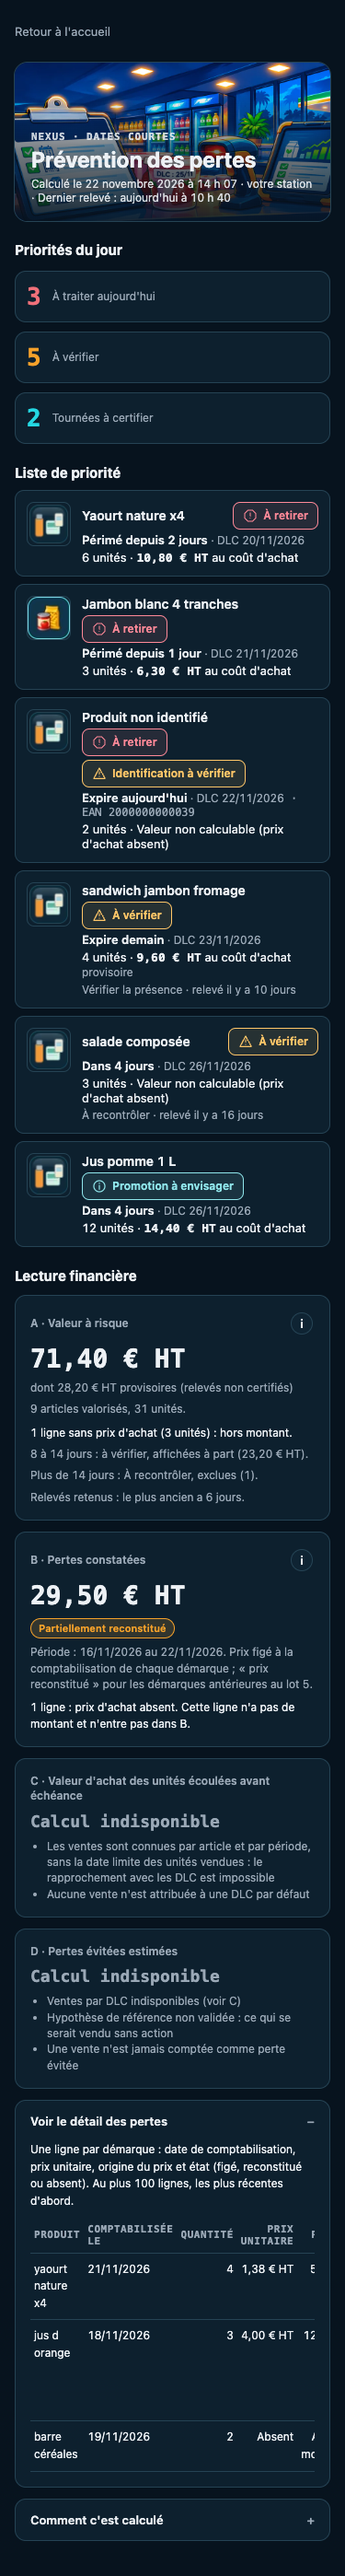
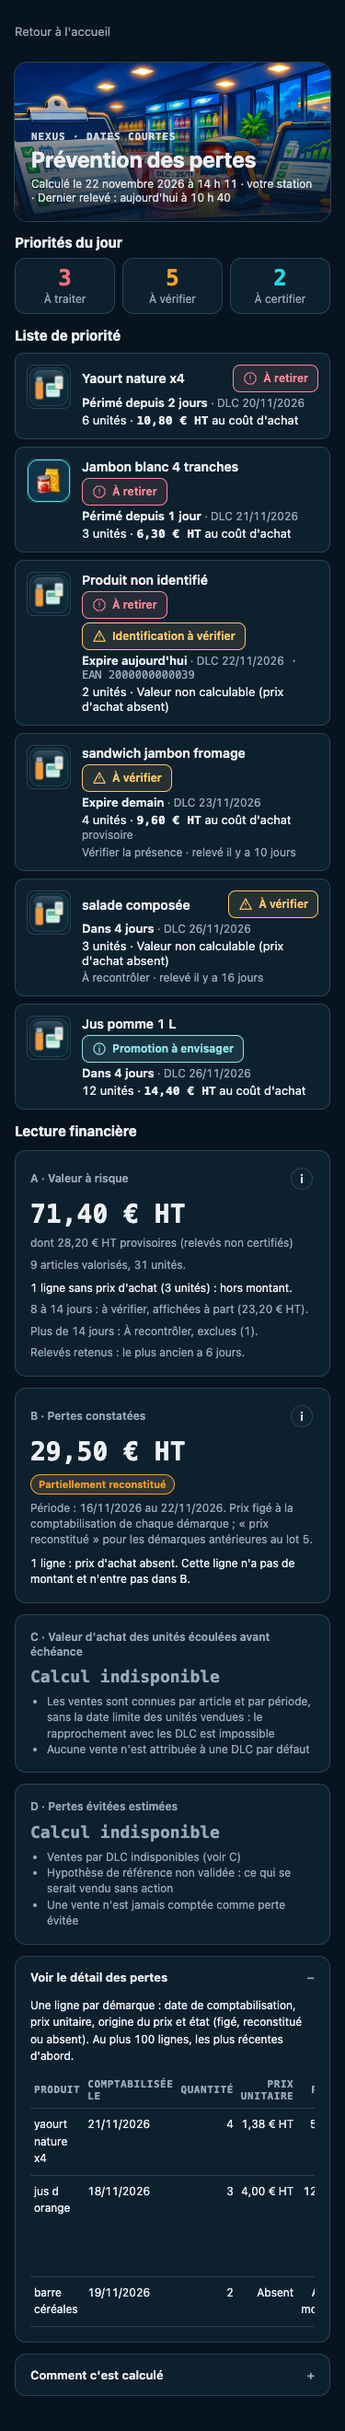
Dates courtes lot 5 : compteurs sur une rangée à 375, titre de liste resserré (Guardian 7083383134)
Trois compteurs sur une rangée (À traiter, À vérifier, À certifier), aria-pressed conservé, cibles d'au moins 44 px. Bannière inchangée. Captures régénérées.

diff --git a/NEXUS-Dates-Courtes-v1.html b/NEXUS-Dates-Courtes-v1.html
@@ -126,7 +126,7 @@
   .fiche button[disabled]{opacity:.6;cursor:not-allowed}
   .fiche .dispo{font-size:12px;color:var(--text-mid);text-align:center}
   :focus-visible{outline:2px solid var(--cyan);outline-offset:2px}
-  @media (max-width:599px){.priorites{grid-template-columns:1fr}.prio{display:flex;align-items:center;gap:12px}.prio .l{margin:0}}
+  @media (max-width:599px){.priorites{gap:8px;margin-top:8px}.prio{padding:8px 6px;text-align:center;min-height:56px}.prio .n{font-size:24px;line-height:1.1}.prio .l{font-size:12px}h2{margin-top:14px}}
 </style>
 </head>
 <body>
@@ -284,7 +284,7 @@
   function priorites(d){
     const c = d.compteurs;
     const b = (k, cl, n, l) => '<button type="button" class="prio ' + cl + '" data-f="' + k + '" aria-pressed="' + (FILTRE === k) + '"><span class="n">' + nb(n) + '</span><span class="l">' + l + '</span></button>';
-    return '<div class="priorites" role="group" aria-label="Priorités du jour">' + b('traiter', 'rouge', c.traiter, 'À traiter aujourd\'hui') + b('verifier', 'ambre', c.verifier, 'À vérifier') + b('certifier', 'cyan', c.certifier, 'Tournées à certifier') + '</div>';
+    return '<div class="priorites" role="group" aria-label="Priorités du jour">' + b('traiter', 'rouge', c.traiter, 'À traiter') + b('verifier', 'ambre', c.verifier, 'À vérifier') + b('certifier', 'cyan', c.certifier, 'À certifier') + '</div>';
   }
 
   function correspond(it, f){
